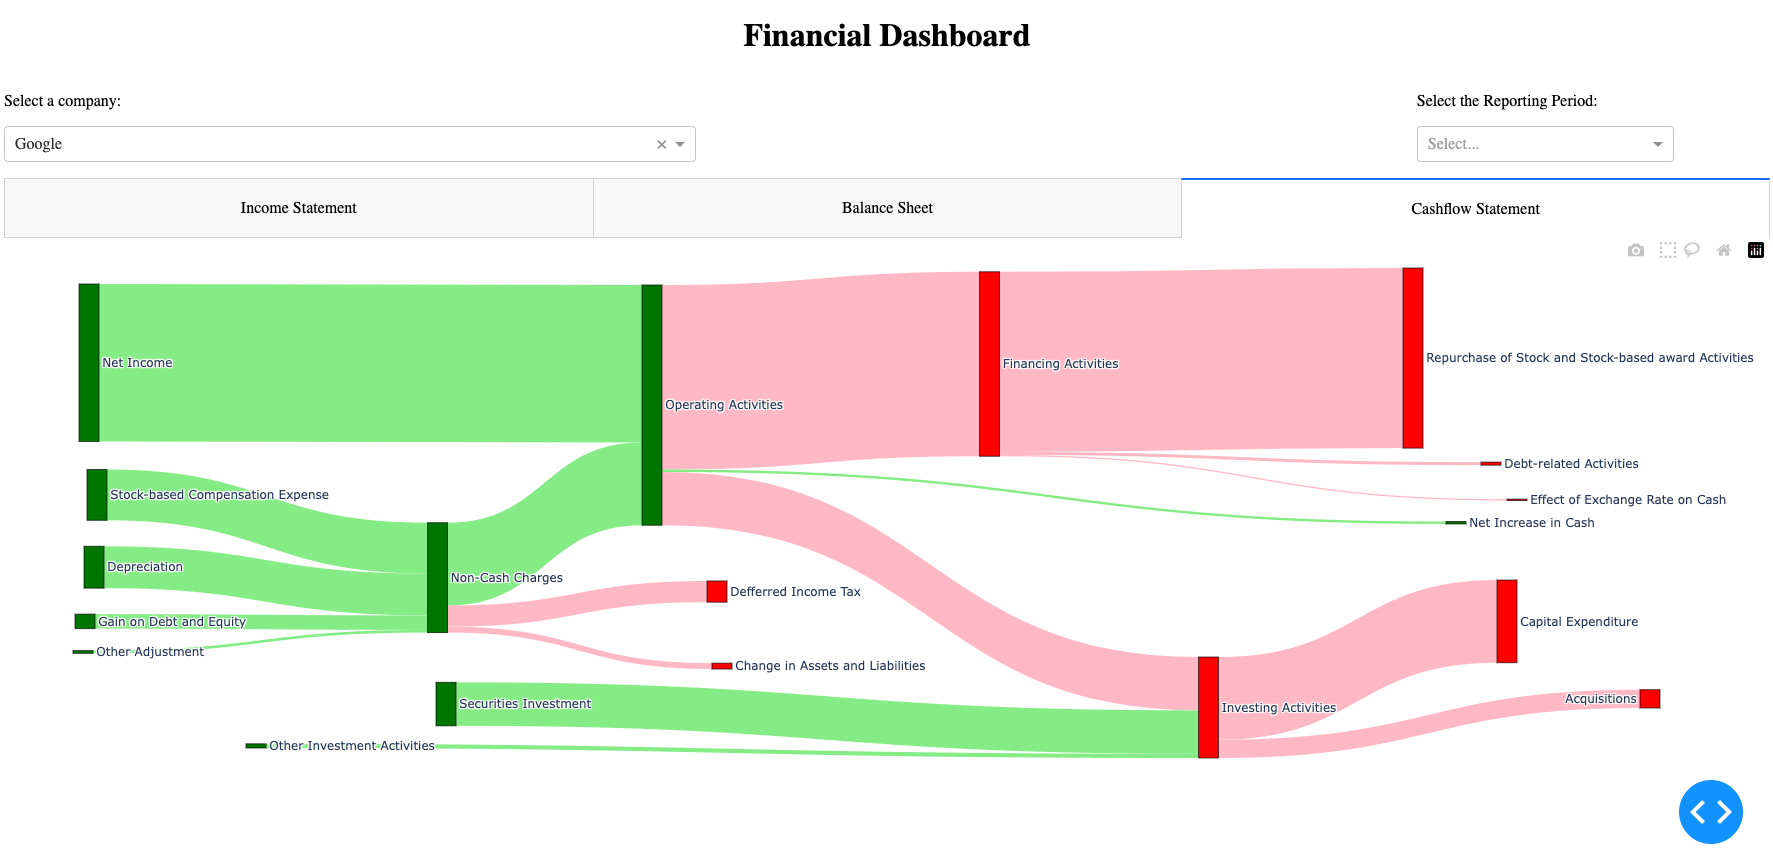
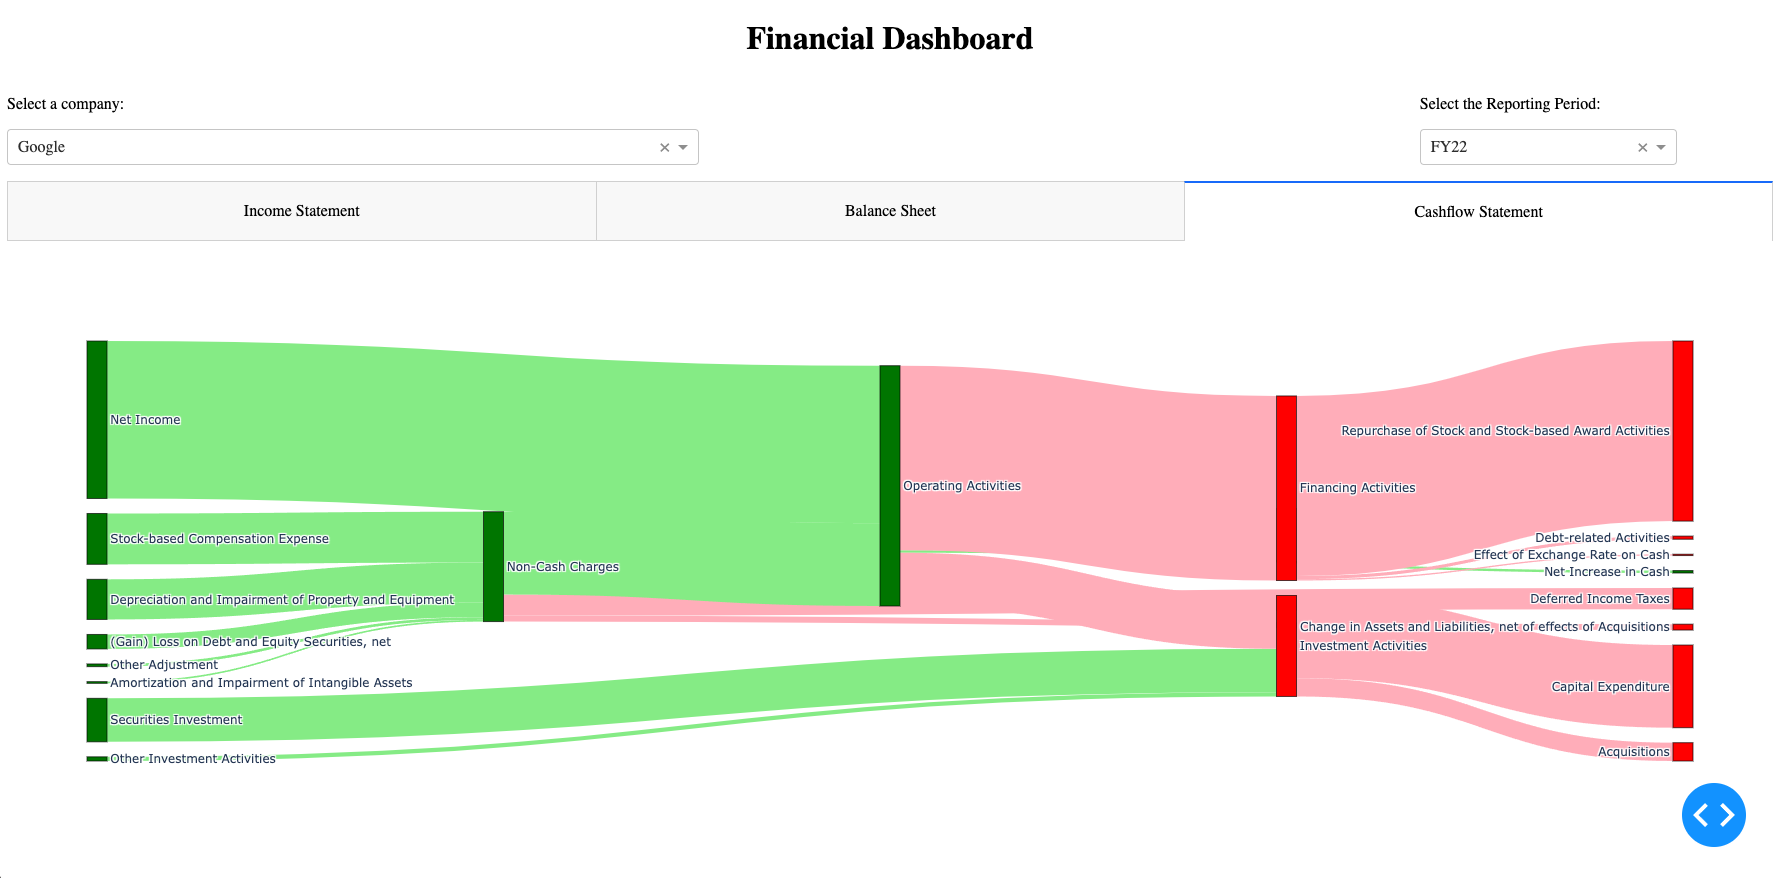
Finish up drafts for v0.0.2

diff --git a/dashboard/data/googl/data_balsht_googl.py b/dashboard/data/googl/data_balsht_googl.py
@@ -9,22 +9,28 @@ def get_nodes():
 	f = open(f'{curr_dir}/nodes_googl_balsht.json')
 	return json.load(f)
 
+# To determine how the link is linked between nodes and determine link colours
 def get_link_direction(left_node, right_node, curr_value, acct='asset'):
-	# For Liability or equity accounts
+	# For Liability
 	if acct=='liability':
+		# Normal liability balance
 		if curr_value>0:
 			return left_node, right_node, curr_value, 'lightpink'
+		# Negative liability balance
 		else:
 			return right_node, left_node, -1*curr_value, 'lightgreen'
+	# For Equity
 	elif acct=='equity':
 		if curr_value>0:
 			return left_node, right_node, curr_value, 'lightblue'
+		# Negative retain earnings
 		else:
 			return right_node, left_node, -1*curr_value, 'lightpink'
 
 	# For Assets accounts
 	if curr_value>0:
 		return left_node, right_node, curr_value, 'lightgreen'
+	# Negative asset balance
 	else:
 		return right_node, left_node, -1*curr_value, 'lightpink'
 
@@ -50,15 +56,14 @@ def get_data(df):
 	# Obtain prepared sankey nodes setup
 	nodes = get_nodes()
 	nodes_label = [k for k in nodes.keys()]
-	print(nodes) # Delete later
 
-	# Nodes colour, green=asset, red=liability, blue=equity
+	# Nodes colour, green=asset, red=liability, blue=equity, black=Total Asset
 	nodes_colors = ['green']*13+['black','red','blue']+['red']*10+['blue']*2
 
 	# Map each KPI with the preassigned index number in nodes_label
-	df_temp = {'Items': [k for k in nodes.keys()], 'Node_num':[nodes[k] for k in nodes.keys()]}
+	df_temp = {'Items': [k for k in nodes.keys()], 
+		'Node_num':[nodes[k] for k in nodes.keys()]}
 	df = pd.merge(df, pd.DataFrame(df_temp), on='Items', how='inner')
-	print(df) # Delete later
 
 	# Asset here
 	## Current Assets
@@ -66,17 +71,20 @@ def get_data(df):
 	for i in range(0,5):
 		curr_value = df[df['Node_num']==i]['Value'].values[0]
 		link_temp = get_link_direction(i, 12, curr_value,'asset')
+		# Add links from current node to current asset
 		links = add_node_to_link(links, link_temp[0],link_temp[1],
-		link_temp[2],link_temp[3])
+			link_temp[2],link_temp[3])
 		curr_asset += curr_value
+	# Add link from current asset to total asset
 	links = add_node_to_link(links, 12, 13, curr_asset, 'lightgreen')
 
-	## Long-term Liabilities
+	## Long-term Asset
 	for i in range(5,12):
 		curr_value = df[df['Node_num']==i]['Value'].values[0]
 		link_temp = get_link_direction(i, 13, curr_value,'asset')
+		## Add links from current node to total asset
 		links = add_node_to_link(links, link_temp[0],link_temp[1],
-		link_temp[2],link_temp[3])
+			link_temp[2],link_temp[3])
 
 	# Liabilities here
 	lib = 0
@@ -85,20 +93,23 @@ def get_data(df):
 	for i in range(17,22):
 		curr_value = df[df['Node_num']==i]['Value'].values[0]
 		link_temp = get_link_direction(16, i, curr_value,'liability')
+		## Add links from current liability to current node
 		links = add_node_to_link(links, link_temp[0],link_temp[1],
 		link_temp[2],link_temp[3])
 		curr_lib += curr_value
-		print(curr_lib)
 	lib += curr_lib # Add curr_lib to total lib
+	# Add link from total liability to current liability
 	links = add_node_to_link(links, 14, 16, curr_lib, 'lightpink')
 
 	## Long-term Liabilities
 	for i in range(22,26):
 		curr_value = df[df['Node_num']==i]['Value'].values[0]
 		link_temp = get_link_direction(14, i, curr_value,'liability')
+		# Add link from total liability to current node
 		links = add_node_to_link(links, link_temp[0],link_temp[1],
 		link_temp[2],link_temp[3])
 		lib += curr_value # Add curr_value directly to total lib
+	# Add link from total asset to totla liability
 	links = add_node_to_link(links, 13, 14, lib, 'lightpink')
 
 	# Equity here
@@ -106,12 +117,13 @@ def get_data(df):
 	for i in range(26,28):
 		curr_value = df[df['Node_num']==i]['Value'].values[0]
 		link_temp = get_link_direction(15, i, curr_value,'equity')
+		# Add equity from total equity to current node
 		links = add_node_to_link(links, link_temp[0],link_temp[1],
 		link_temp[2],link_temp[3])
 		equ += curr_value
+	# Add link from total asset to total equity
 	links = add_node_to_link(links, 13, 15, equ, 'lightblue')
 
-	print(links) # Delete later
 
 	return nodes_label, nodes_colors, links
 

diff --git a/dashboard/data/googl/data_cshfsmt_googl.py b/dashboard/data/googl/data_cshfsmt_googl.py
@@ -45,6 +45,7 @@ def add_node_to_link(links, source, target, value, color):
 	links['color'].append(color)
 	return links
 
+# If the number is disfavor, change node colour from green to red, or by versa
 def change_node_color(nodes_colors, i_node, value):
 	if value>0:
 		nodes_colors[i_node] = 'green'
@@ -64,16 +65,31 @@ def get_data(df):
 	# Obtain prepared sankey nodes setup
 	nodes = get_nodes()
 	nodes_label = [k for k in nodes.keys()]
-	print(nodes) # Delete later
 
-	# Nodes colour, fix it later
+	# Initiate node colour and change colour based on metric values
 	nodes_colors = ['gray']*len(nodes)
 
 	# Map each KPI with the preassigned index number in nodes_label
-	df_temp = {'Items': [k for k in nodes.keys()], 'Node_num':[nodes[k] for k in nodes.keys()]}
+	df_temp = {'Items': [k for k in nodes.keys()], 
+		'Node_num':[nodes[k] for k in nodes.keys()]}
 	df = pd.merge(df, pd.DataFrame(df_temp), on='Items', how='inner')
-	# print(df) # Delete later
 
+
+	"""
+	Mapping the nodes with links based on metric values, each operating
+	consists of:
+	1 - Extract the value
+	2 - Determine the direction of the link and its colour
+	3 - Declare the link
+	4 - Change node color to reflect whether metric value is favor 
+		to company or not
+
+	The algo consists of Operating Activities, Financing Activities,
+	Investment Activities, as reflected on 10-K or 10-Q, in 3 parts
+
+	Each part will loop over subcategories first, then link it to category,
+	and link the category to total
+	"""
 	# Operating Activities here
 	## Net Income here
 	curr_value = df[df['Node_num']==0]['Value'].values[0]
@@ -131,6 +147,4 @@ def get_data(df):
 	links = add_node_to_link(links, 9, 12, -1*fin, 'lightpink')
 	nodes_colors = change_node_color(nodes_colors, 12, fin)
 	
-
-	print(links) # Delete later
 	return nodes_label, nodes_colors, links

diff --git a/dashboard/data/loaddata.py b/dashboard/data/loaddata.py
@@ -21,10 +21,13 @@ def read_csv(path):
 def load_alldata():
 	companies, tickers, company2ticker = get_companies()
 	companies_data = {}
+
+	# Loop over all available companies (folder)
 	for ticker in tickers:
 		if os.path.exists(f'{data_loc}/{ticker}'):
-			# print(f'I saw {ticker}')
+			# Initiate container to store all data
 			companies_data[ticker] = {}
+
 			# Load Income Statement data
 			inc_smt_loc = f'{data_loc}/{ticker}/{ticker}_income_example.csv'
 			companies_data[ticker]['income_statement'] = read_csv(inc_smt_loc)

diff --git a/dashboard/cashflow_statement.py b/dashboard/cashflow_statement.py
@@ -6,6 +6,5 @@ from data.googl.cashflow_googl import *
 # Function called by dashboard.py
 def cashflow_statement_figure(company, data):
 	if company == 'googl':
-		return cashflow_statement_GOOGL(data) # For testing, delete later
-		# return example.fig # return poc image, delete later
+		return cashflow_statement_GOOGL(data)
 	return None

diff --git a/dashboard/balancesheet.py b/dashboard/balancesheet.py
@@ -6,6 +6,5 @@ from data.googl.balance_sheet_googl import *
 # Function called by dashboard.py
 def balancesheet_figure(company, data):
 	if company == 'googl':
-		# balance_sheet_GOOGL(data) # For testing, delete later
 		return balance_sheet_GOOGL(data)
-	return example.fig
+	return None

diff --git a/dashboard/data/googl/readme.md b/dashboard/data/googl/readme.md
@@ -4,16 +4,42 @@ Coming soon...
 ## Nodes Explained
 Coming soon...
 
+### Nodes Definitions
+The nodes used in the sankey charts are defined in the json files - <i>nodes_googl_incsmt.json</i>, <i>nodes_googl_balsht.json</i>, and <i>nodes_googl_cshfsmt.json</i>, respective to income statement, balance sheet, cashflow statement. The definitions are responsible to map the datasets to the node definitions. More instructions will be coming soon...
+
 ### Income Statment
+The definitions of nodes used for Google's income statement sankey charts can be found in <i>nodes_googl_incsmt.json</i>, and here is the visualization of the node relation.
+<br>
+
 <img src=Images/googl_incsmt_sankey.png>
 <img src=Images/googl_incsmt_example.png>
 
 ### Balance Sheet
+The definitions of nodes used for Google's balance sheet sankey charts can be found in <i>nodes_googl_balsht.json</i>, and here is the visualization of the node relation.
+<br>
+
 <img src=Images/googl_bal_sankey.png>
 
 ### Cash Flow Statement
+The definitions of nodes used for Google's cashflow statement sankey charts can be found in <i>nodes_googl_cshfsmt.json</i>, and here is the visualization of the node relation.
+<br>
+
 <img src=Images/googl_cshfsmt_sankey.png>
 <img src=Images/googl_cshfsmt_cal1_explain.png>
+
+## Scripts
+More instructions are coming soon...<br>
+Here are the scripts used:
+
+<ul>
+	<li><i>income_googl.py</i>: Organizate income statement data at <i>data_incsmt_googl.py</i> and generate sankey chart figure object.</li>
+	<li><i>balance_sheet_googl.py</i>: Organizate balance sheet data at <i>data_balsht_googl.py</i> and generate sankey chart figure object.</li>
+	<li><i>cashflow_googl.py</i>: Organizate cashflow statement data at <i>data_cshfsmt_googl.py</i> and generate sankey chart figure object.</li>
+	<li><i>data_incsmt_googl.py</i>: Assign links metadata for the income statement sankey charts.</li>
+	<li><i>data_balsht_googl.py</i>: Assign links metadata for the balance sheet sankey charts.</li>
+	<li><i>data_cshfsmt_googl.py</i>: Assign links metadata for the cashflow statement sankey charts.</li>
+</ul>
+
 
 
 ## Reference

diff --git a/dashboard/readme.md b/dashboard/readme.md
@@ -1,18 +1,23 @@
 # Dashboard
-Currently under development...Coming soon...
+The dashboard is currently under development, the alpha version maybe tested with instruction under the instruction section.
+<br>
+Coming soon...
 
 ## Developement Update
-Developed the dashboard layout and displaying the chart created in the POC folder.
+The dashboard layout is drafted and able to displaying the chart with pre-matured backend. Currently the dashboard is only able to generate the financials of Google in 2022. More features and companies will be available in the future releases. Coming soon...
 <br><br>
-<img src=../gallery/income_v001.png>
-<img src=../gallery/balance_v001.png>
+<img src=../gallery/income_v002.png>
+<img src=../gallery/balance_v002.png>
 <img src=../gallery/cashflow_v002.png>
 
 ## Instruction
 ### Prepare the Data
+Currently, there is only Google's 2022 10-K data is prepared. More dataset will be prepared in the future release. However, the dataset template is available iin the [Data](data) folder.
+<br>
 Coming soon...
+
 <br><br>
-Detailed Instruction will be available in the [Data](data) folder.
+Detailed Instruction will be available in the [Data](data) folder. In the current version, the sample data is sufficient to run the dashboard.
 
 ### Running the Dashboard
 To run the dashboard, run execute this on the command line:
@@ -23,3 +28,12 @@ python dashboard.py
 
 <br>
 Then, go to <b>127.0.0.1</b> (localhost) to access the dashboard.
+
+
+## Personas
+Targeted dashboard personas. More details will be coming soon...
+<ul>
+	<li>Administrator: Dashboard owner. But this persona does not require any technical skills, such as Product Manager.</li>
+	<li>Technical Operator: Technical owner. This persona will maintain the dashboard, backend, and as well as data required.</li>
+	<li>Viewer: Dashboard consumers. This persona simply use the dashbboard and will only interact the dashboard, but not the backend or preparing the data.</li>
+</ul>

diff --git a/dashboard/data/Readme.md b/dashboard/data/Readme.md
@@ -1,7 +1,5 @@
 # Data
-This is the Data folder where the dashboard administrator will be preparing the required data to run the dashoard. More instruction is coming soon...
+This is the Data folder where the dashboard administrator will be preparing the required data to run the dashoard. This directory hosts a variety of publicly traded companies, while each folder represents a company and contains the necessarily dataset and scripts. More instructions will be coming soon...
 
 ## Google (GOOGL)
-Coming soon...
-<br><br>
-More instruction in the [Goolge](googl) folder.
+The Google folder contains the supporting scripts to create sankey charts on the dashboard, as well as the dataset templates and sample datasets. More instruction in the [Google](googl) folder.
